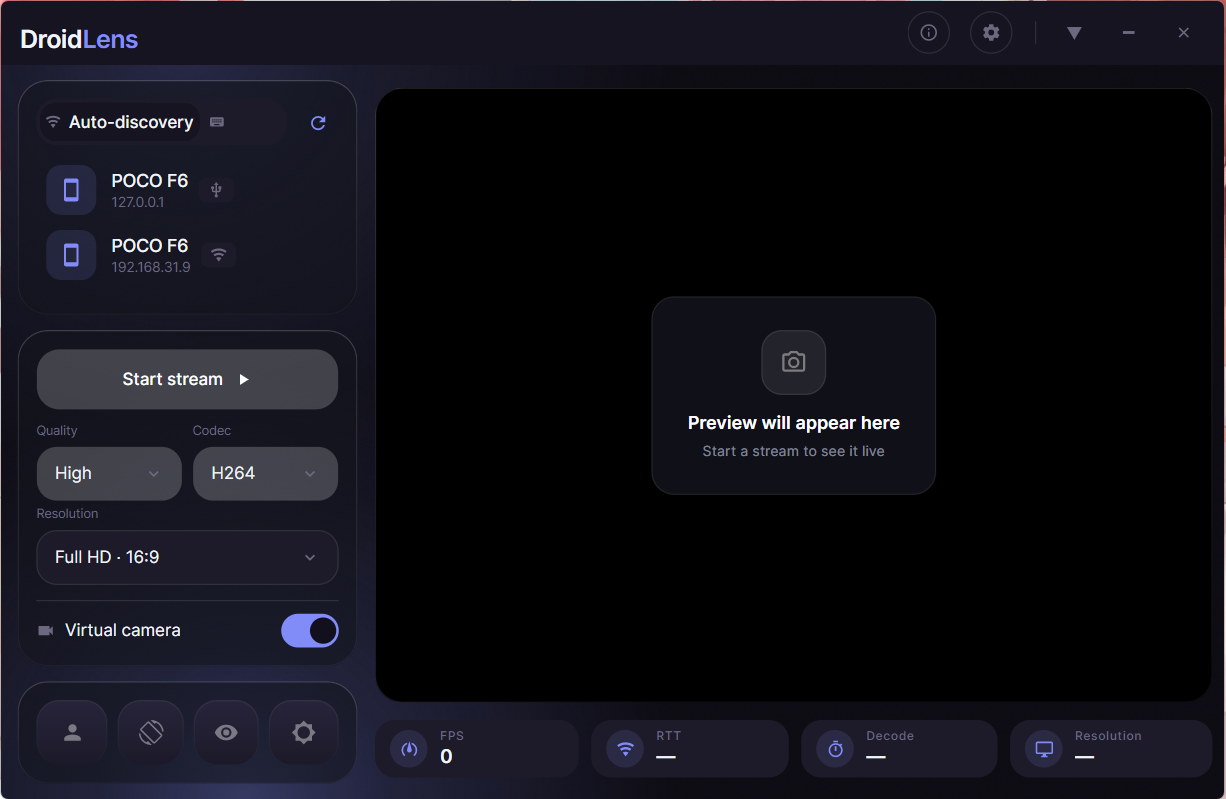
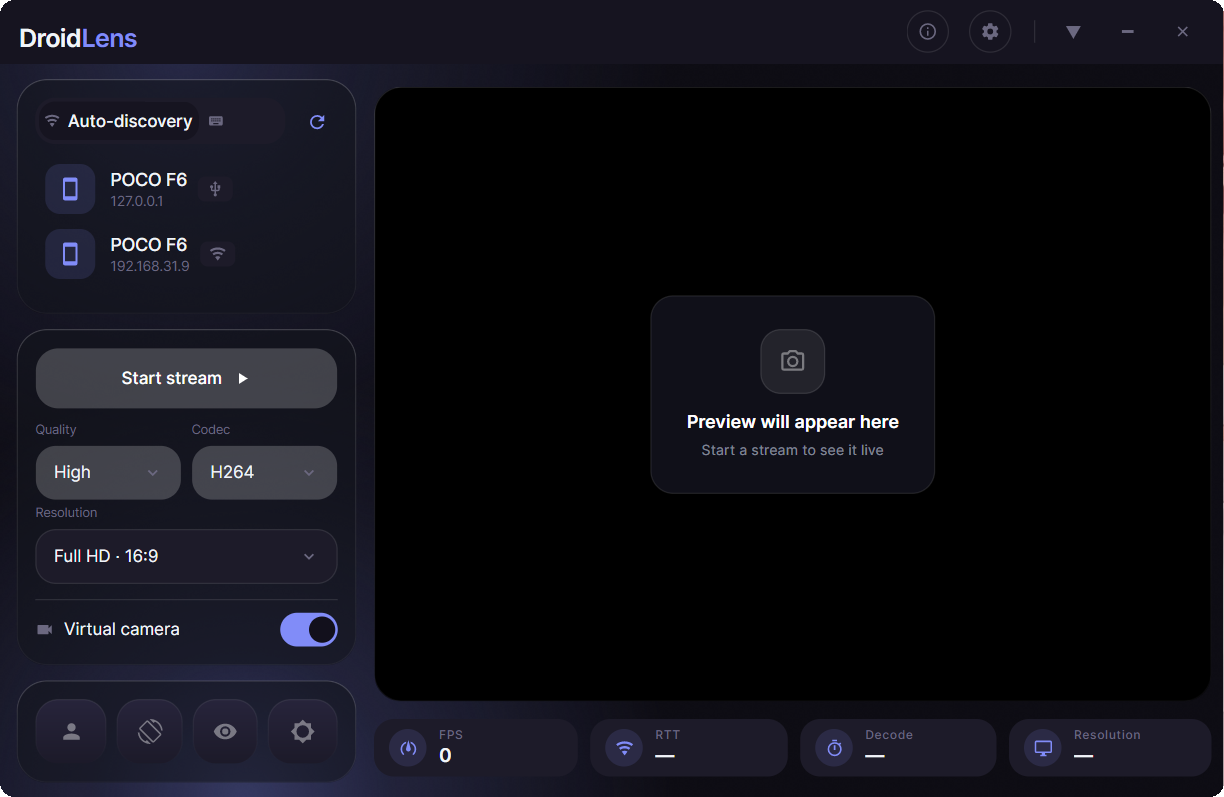
docs(client): trim screenshot edges, round corners, add settings capture

diff --git a/client/README.md b/client/README.md
@@ -35,6 +35,13 @@ The desktop receiver and virtual camera pipeline for DroidLens.
       <em>Light theme — same workflow in Fluent light variant</em>
     </td>
   </tr>
+  <tr>
+    <td align="center" colspan="2">
+      <img src="../assets/screenshots/client-settings-light-theme.png" alt="Settings dialog with theme, language and preview options" width="600" />
+      <br />
+      <em>Settings — theme, language, UI scale, preview FPS limit and ambient light fill</em>
+    </td>
+  </tr>
 </table>
 
 ## 🛠 Tech Stack
